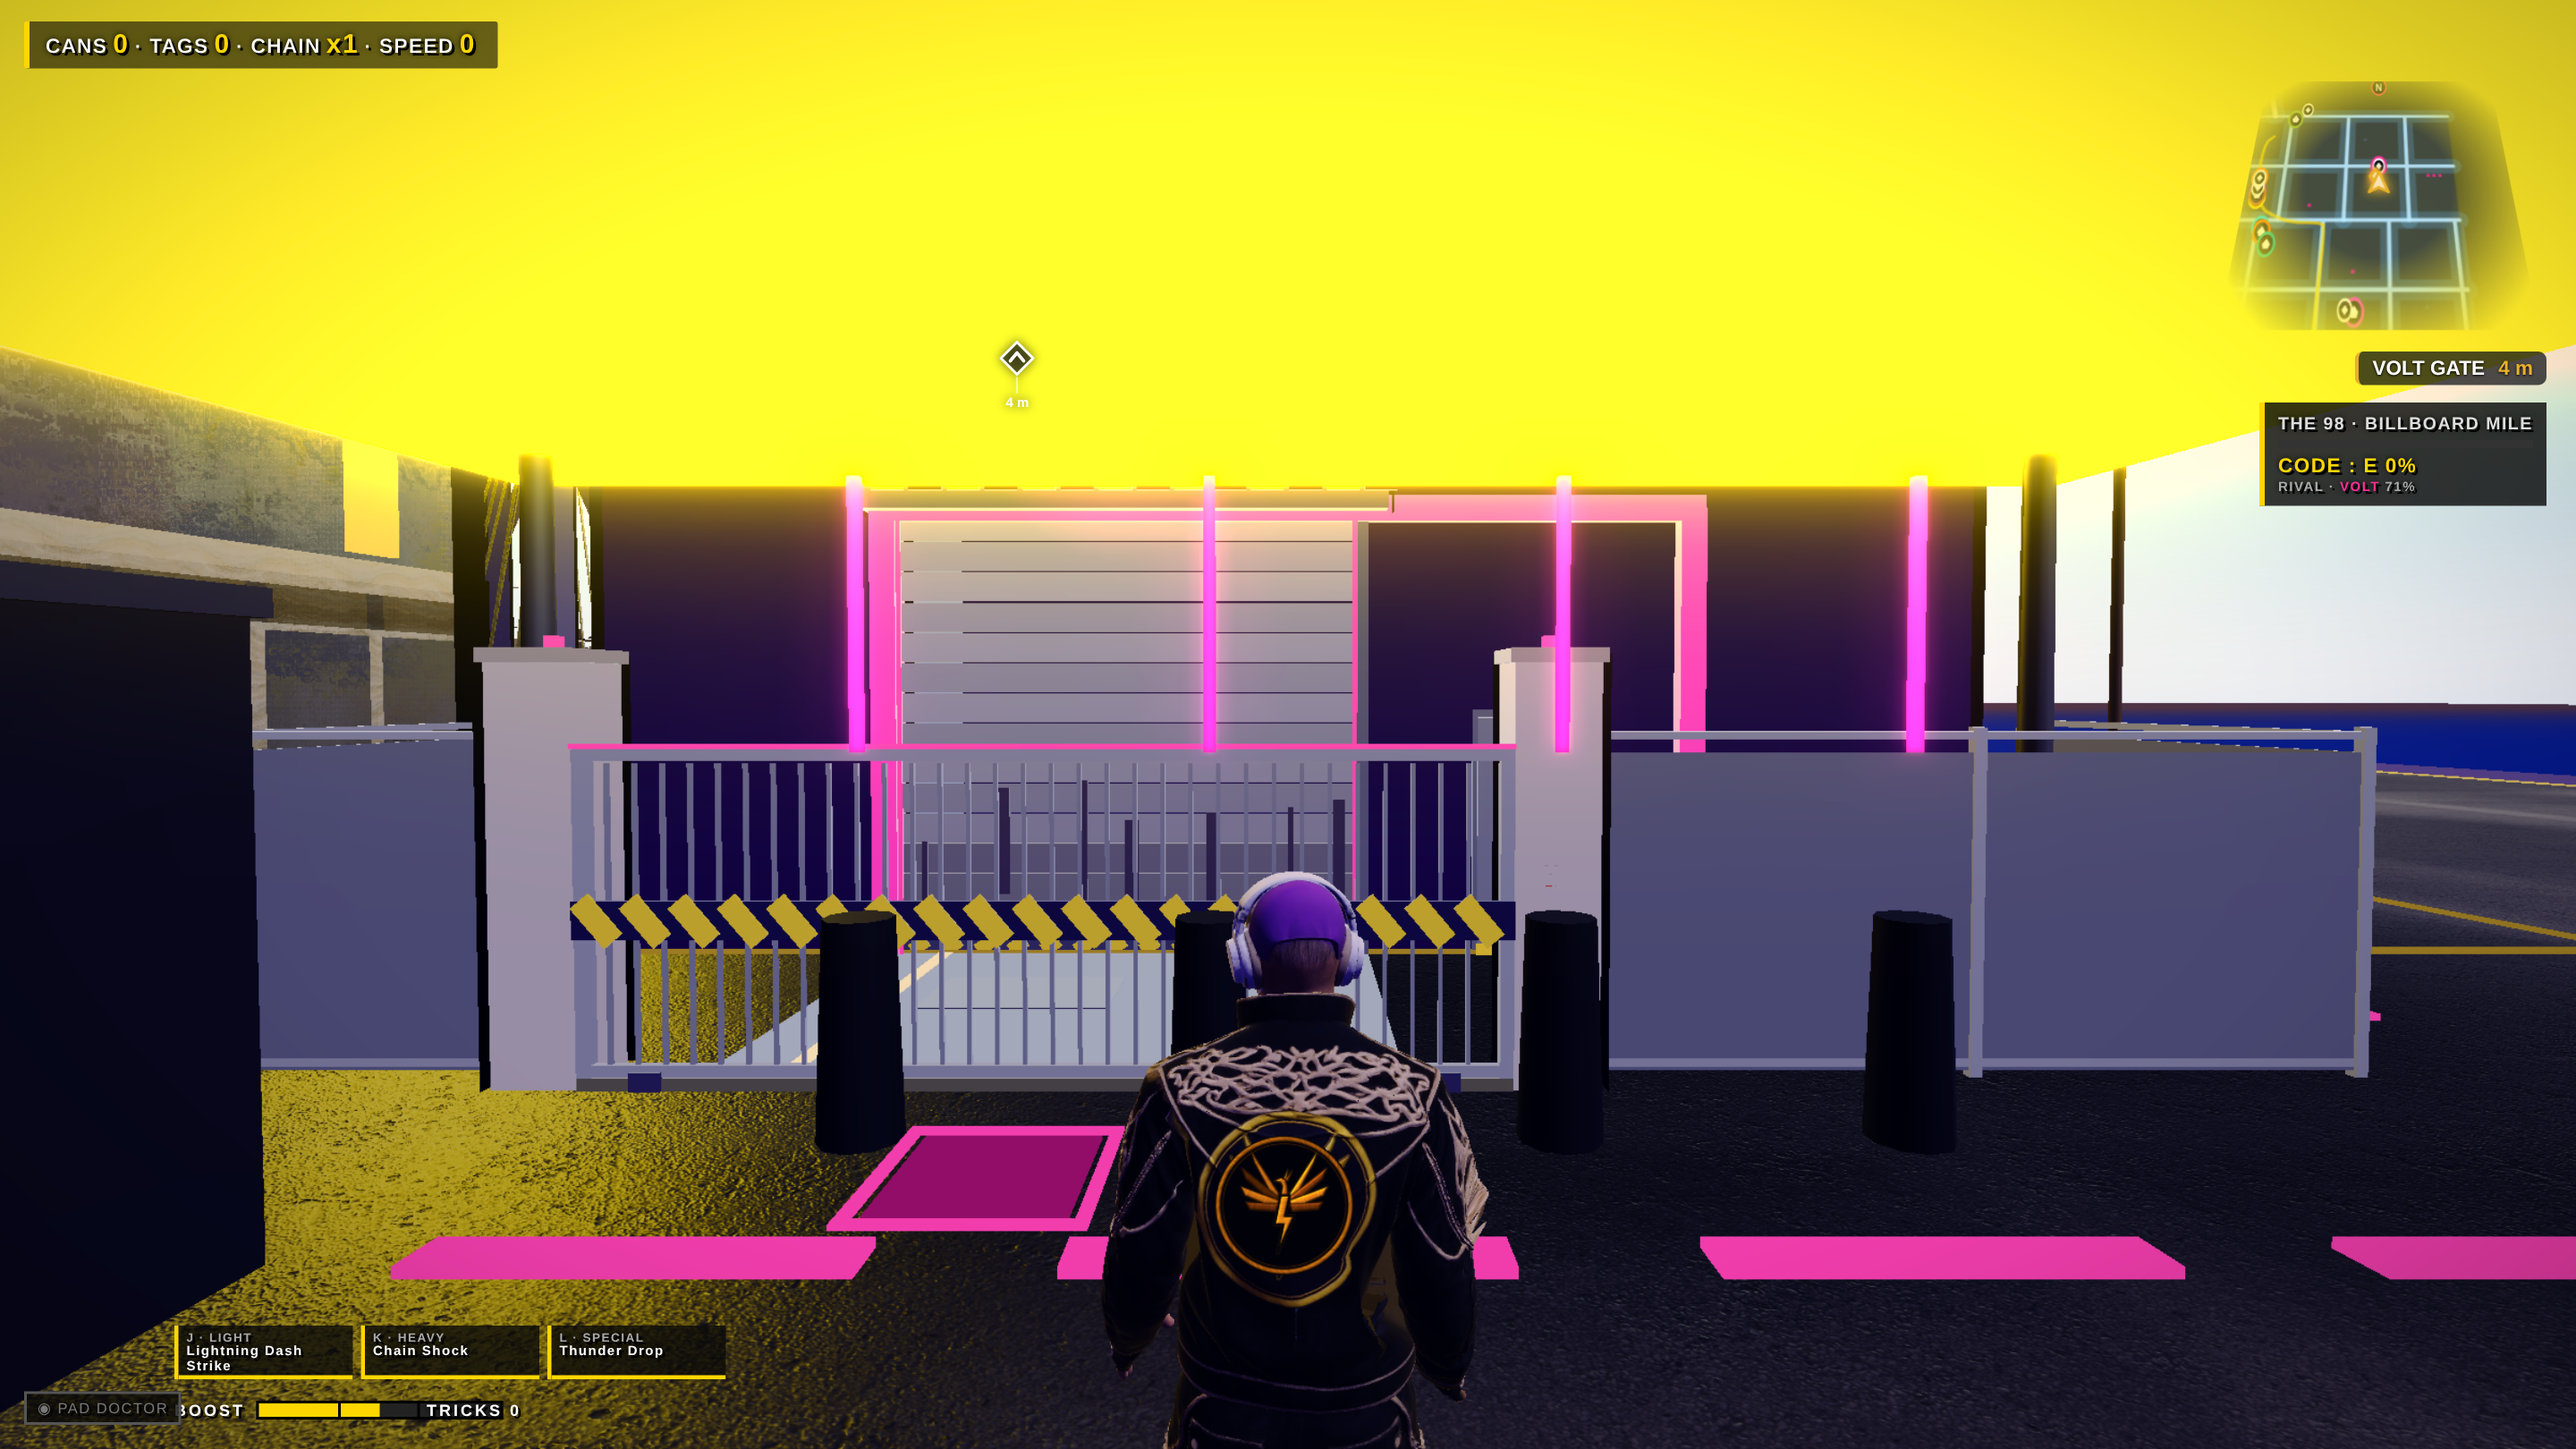
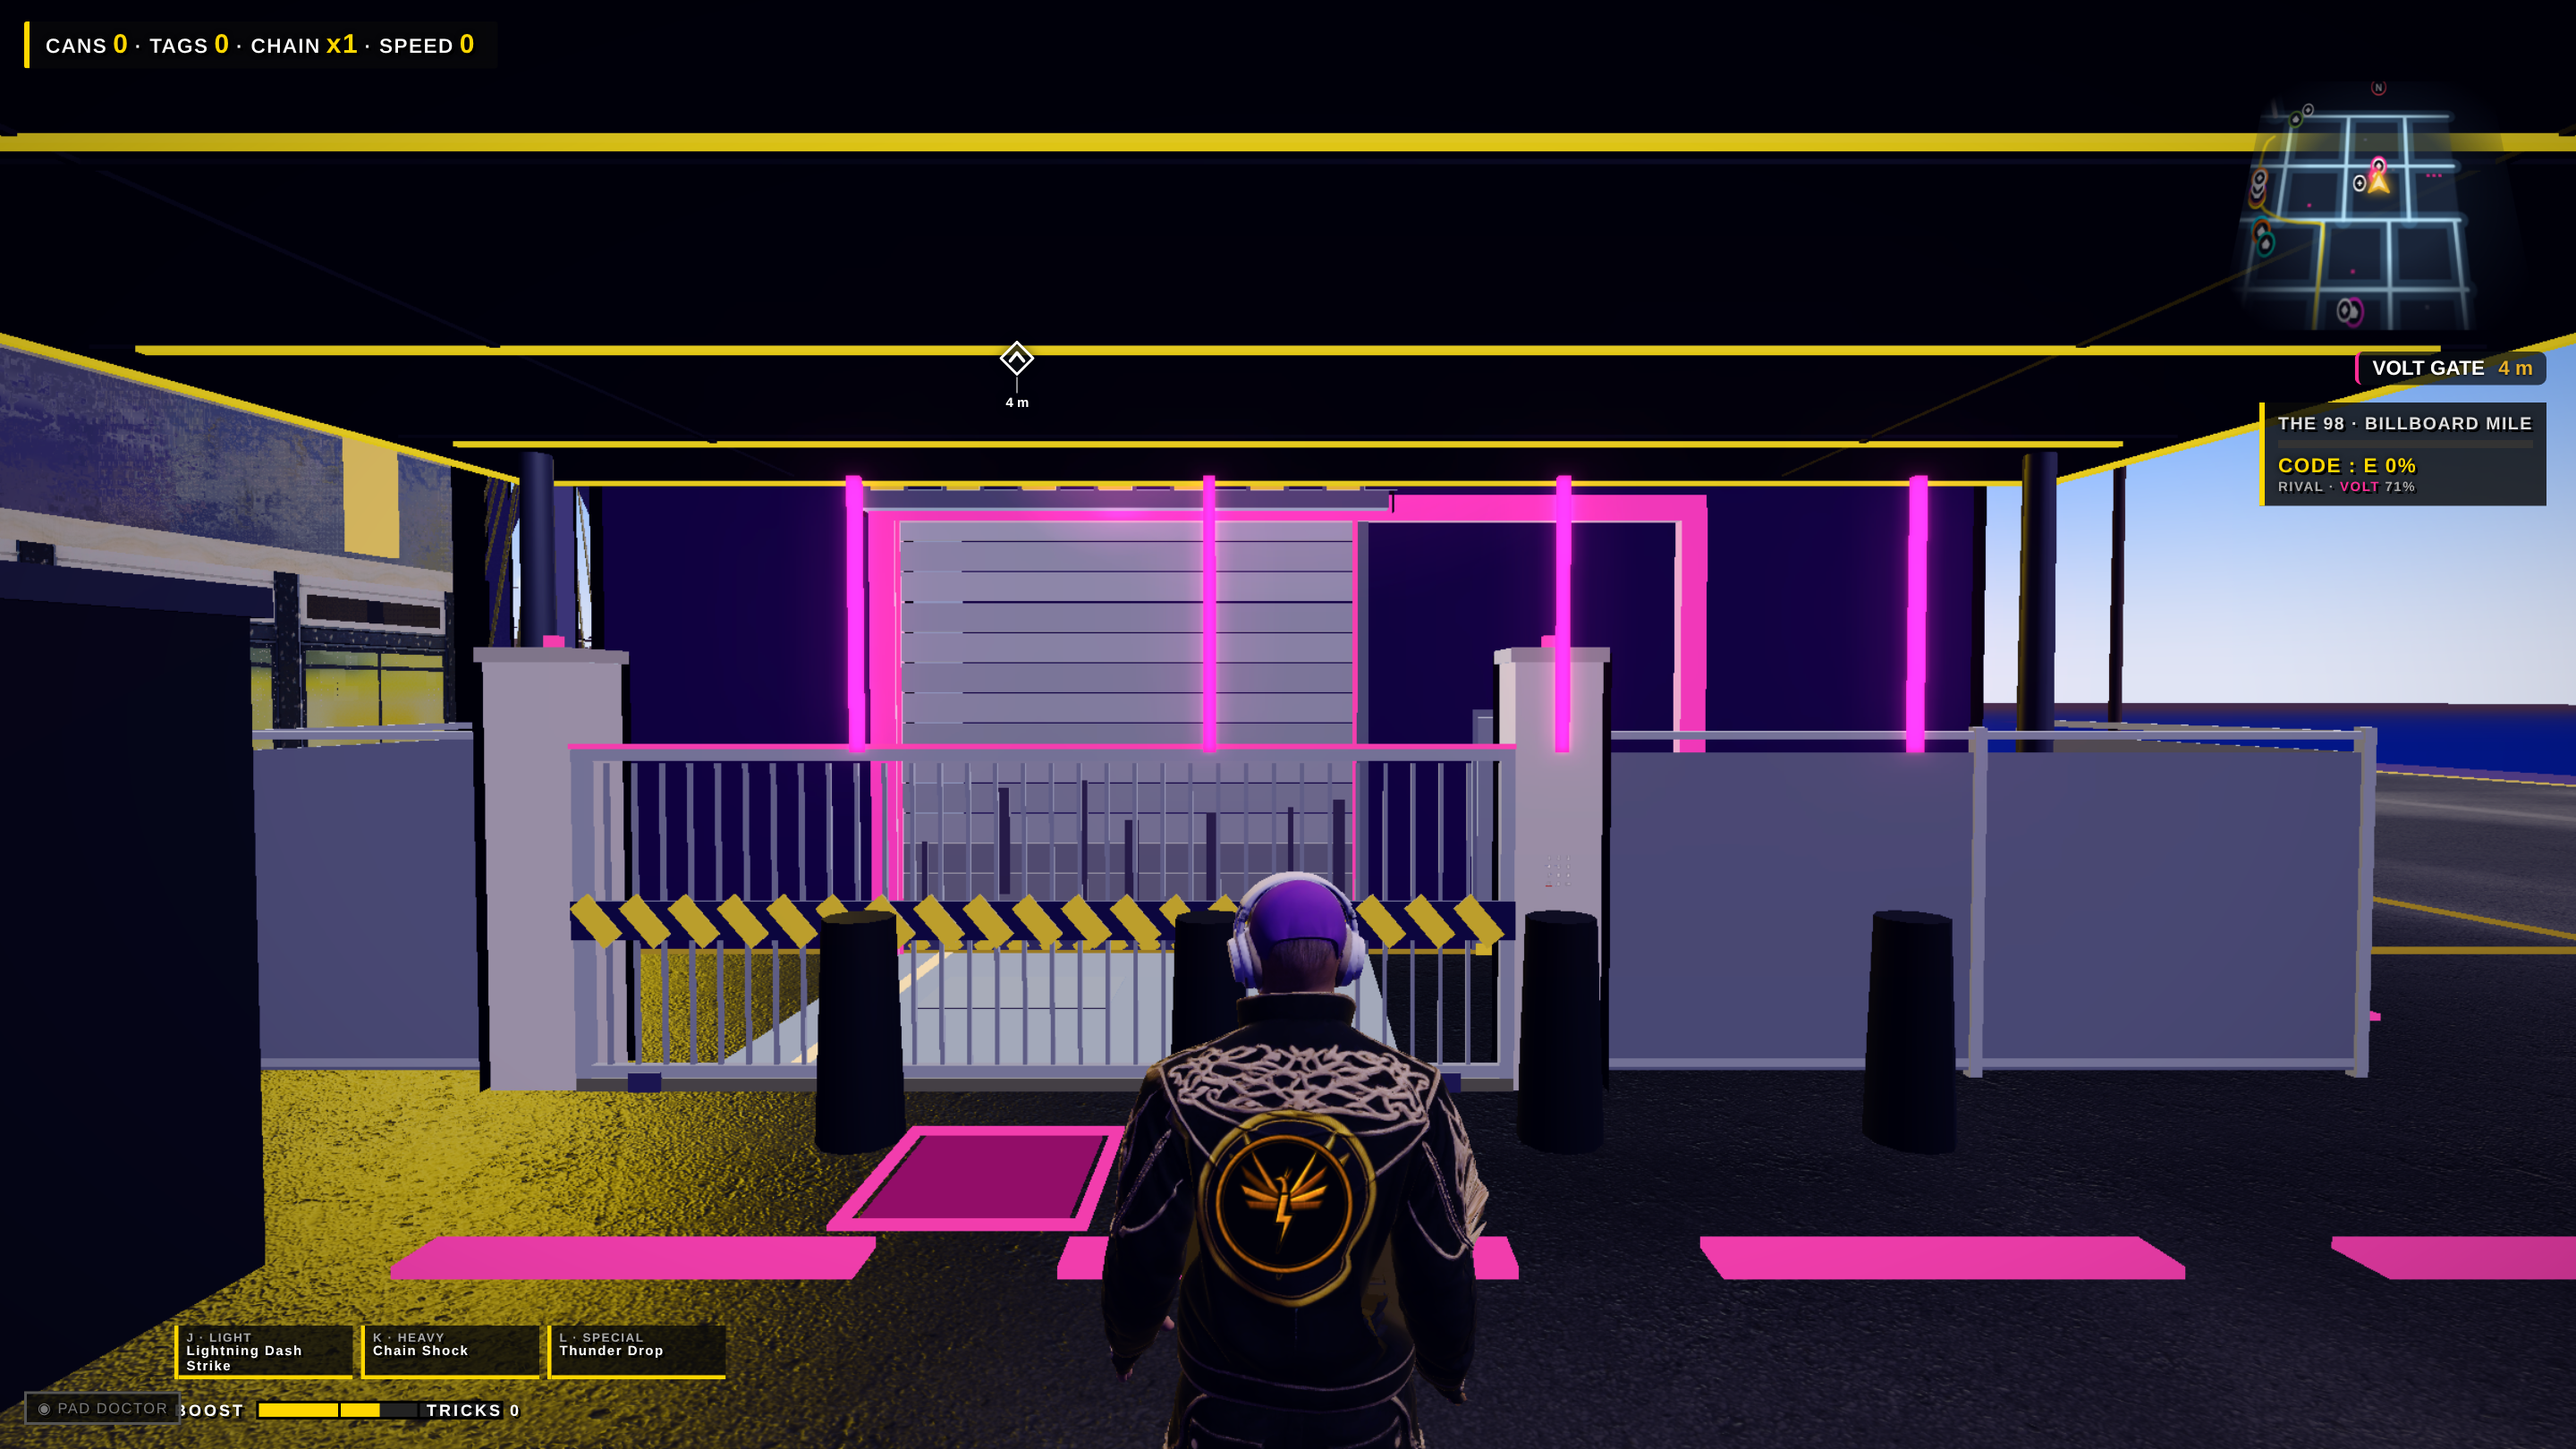
Palma Builder: Volt canopy underside dark PBR + yellow strips + reshot heroes
Replace the blown-out MeshBasic canopy slab with a dark PBR deck
(#1c1e22, roughness .6, metalness .45) and thin tone-mapped yellow
strips (emissive intensity 1.15). Exterior stays 6 draws. New day/night
heroes; _v2 keeps the pre-fix shots.

diff --git a/handover/palma-builder/code/crewhouse_kit.js b/handover/palma-builder/code/crewhouse_kit.js
@@ -502,7 +502,7 @@ const KIT_EXT={ mats:null, done:Object.create(null) };
 function kitExtMats(){ if(KIT_EXT.mats) return KIT_EXT.mats;
   const M={};
   M.steel=new THREE.MeshStandardMaterial({color:0x6a7078,roughness:.55,metalness:.7});
-  M.dark=new THREE.MeshStandardMaterial({color:0x1a1c20,roughness:.72,metalness:.35});
+  M.dark=new THREE.MeshStandardMaterial({color:0x1c1e22,roughness:.6,metalness:.45}); // Volt canopy underside composite; shared
   M.glass=new THREE.MeshStandardMaterial({color:0x88c8e8,roughness:.15,metalness:.2,transparent:true,opacity:.45,depthWrite:false});
   M.corr=new THREE.MeshStandardMaterial({color:0x7a4a2a,roughness:.85,metalness:.55});
   M.corr2=new THREE.MeshStandardMaterial({color:0x5a5e64,roughness:.7,metalness:.65});
@@ -519,17 +519,25 @@ function kitExtMerge(geos,mat,parent,name){ const ok=geos.filter(Boolean); if(!o
   const m=new THREE.Mesh(g,mat); m.name=name||'kit_ext'; m.userData.noMerge=true; m.userData.mod='kit_ext'; m.frustumCulled=true; parent.add(m); return m; }
 function kitExtPushCol(G,boxes){ const th=G.th,[gx,gz]=G.pos; const W=(lx,lz)=>[gx+lx*Math.cos(th)+lz*Math.sin(th), gz-lx*Math.sin(th)+lz*Math.cos(th)];
   for(const [a0,a1,b0,b1] of boxes){ const a=W(a0,b0), b=W(a1,b1); colliders.push({minX:Math.min(a[0],b[0]),maxX:Math.max(a[0],b[0]),minZ:Math.min(a[1],b[1]),maxZ:Math.max(a[1],b[1]),kit_ext:1,g:G}); } }
-function kitExtVolt(G){ // EV charging plaza: canopy + glass kiosk + bollards + neon (target ~5 draws)
+function kitExtVolt(G){ // EV charging plaza: canopy + glass kiosk + bollards + neon (target ~6 draws)
   // Canopy underside clearance >=3.5 m (deck y=3.85, th=.18 -> underside 3.76). No footprint AABB (2D colliders would block under-pass); posts+kiosk+bollards already collide. Thin deck is non-walkable (no ground height).
+  // Ani 14:00: underside was a blown-out 0xffe600 MeshBasic slab — dark PBR deck + thin tone-mapped emissive strips only.
   const M=kitExtMats(), root=new THREE.Group(); root.name='kit_ext_volt'; root.userData.noMerge=true; G.group.add(root);
   const th=kitTheme(G.crew), c1=new THREE.Color(th.c1), accent=new THREE.Color(th.c2);
-  const neon1=kitExtNeon(c1.getHex()), neon2=kitExtNeon(accent.getHex());
-  // draw 1: dark body (canopy deck + kiosk shell)
-  kitExtMerge([kitExtBox(10.5,.18,6.2,0,3.85,5.2), kitExtBox(2.2,2.6,2.0,-5.2,1.3,6.5)], M.dark, root, 'kit_ext_volt_dark');
+  // neon1: moderate emissive strips (NOT MeshBasic / toneMapped:false — that bloom-clipped as a yellow sheet)
+  const neon1=new THREE.MeshStandardMaterial({color:0x14140c,emissive:c1.getHex(),emissiveIntensity:1.15,roughness:.35,metalness:.15,toneMapped:true});
+  const neon2=kitExtNeon(accent.getHex());
+  // draw 1: dark body — canopy deck (underside reads as dark metal) + kiosk shell + underside panel grooves
+  kitExtMerge([kitExtBox(10.5,.18,6.2,0,3.85,5.2), kitExtBox(2.2,2.6,2.0,-5.2,1.3,6.5),
+    kitExtBox(10.0,.015,.035,0,3.745,3.55),kitExtBox(10.0,.015,.035,0,3.745,5.2),kitExtBox(10.0,.015,.035,0,3.745,6.85),
+    kitExtBox(.035,.015,5.6,-3.3,3.745,5.2),kitExtBox(.035,.015,5.6,3.3,3.745,5.2)], M.dark, root, 'kit_ext_volt_dark');
   // draw 2: steel (canopy posts + kiosk roof) — posts h=3.76 @ cy=1.88 reach deck underside
   kitExtMerge([kitExtCyl(.09,.11,3.76,-4.6,1.88,3.0),kitExtCyl(.09,.11,3.76,-4.6,1.88,7.2),kitExtCyl(.09,.11,3.76,4.6,1.88,3.0),kitExtCyl(.09,.11,3.76,4.6,1.88,7.2),kitExtBox(2.3,.12,2.1,-5.2,2.66,6.5)], M.steel, root, 'kit_ext_volt_steel');
-  // draw 3: neon primary (canopy edge + LED strips + yard strip)
-  kitExtMerge([kitExtBox(10.7,.06,6.4,0,3.78,5.2),kitExtBox(9.6,.04,.08,0,3.72,3.4),kitExtBox(9.6,.04,.08,0,3.72,5.2),kitExtBox(9.6,.04,.08,0,3.72,7.0),kitExtBox(9.5,.03,.2,0,.04,8.2)], neon1, root, 'kit_ext_volt_neon1');
+  // draw 3: yellow emissive accents only — thin perimeter + cross strips + yard strip (no full-slab)
+  kitExtMerge([kitExtBox(10.55,.03,.05,0,3.74,2.15),kitExtBox(10.55,.03,.05,0,3.74,8.25),
+    kitExtBox(.05,.03,6.15,-5.22,3.74,5.2),kitExtBox(.05,.03,6.15,5.22,3.74,5.2),
+    kitExtBox(9.6,.025,.045,0,3.735,3.4),kitExtBox(9.6,.025,.045,0,3.735,5.2),kitExtBox(9.6,.025,.045,0,3.735,7.0),
+    kitExtBox(9.5,.03,.2,0,.04,8.2)], neon1, root, 'kit_ext_volt_neon1');
   // draw 4: neon accent (kiosk bar + 4 cable arms as boxes)
   kitExtMerge([kitExtBox(1.6,.18,.06,-5.2,2.4,7.55),kitExtBox(.06,1.4,.06,-2.2,2.7,4.2),kitExtBox(.06,1.4,.06,-.4,2.7,4.2),kitExtBox(.06,1.4,.06,1.4,2.7,4.2),kitExtBox(.06,1.4,.06,3.2,2.7,4.2)], neon2, root, 'kit_ext_volt_neon2');
   // draw 5: glass kiosk pane

diff --git a/handover/palma-builder/ref/garages-volt-rustclaw.md b/handover/palma-builder/ref/garages-volt-rustclaw.md
@@ -132,3 +132,21 @@ Each exterior ≤ ~6 draws; world ≤ 110 (dcsplit2, desktop non-XR, post off, s
 
 ### Files
 `crewhouse_kit.js`, `patch_crewhouse_kit.py`, `garage_hero_shots.py`, `palma_testlock.sh`. Backups `*.bak-ani-fix-*`.
+
+### 2026-11-05 14:01 CST — Volt canopy underside (Ani)
+- Cause: `kitExtBox(10.7,.06,6.4)` neon1 MeshBasic (toneMapped:false) = blown-out yellow sheet under night cam.
+- Fix in `crewhouse_kit.js` kitExtVolt: remove full slab; dark PBR deck (M.dark roughness .6) + thin MeshStandard emissive strips (intensity 1.15, toneMapped); still 6 draws. build_copy → `/tmp/palma_garages.html`. Waiting lock (pbr_base + bases queue first).
+
+### 2026-11-05 14:51 CST — resume canopy re-shoot
+- Code + copy OK (emissiveIntensity 1.15 strips, no full slab). Waiter pid 2090461 healthy, yielding to Rigger 2078568 (simca+dark2, lock from 14:35). Pre-fix heroes still at garage_volt_exterior_{day,night}.png; *_v2 are same-byte pre-fix backups (not new shots).
+
+### 2026-11-05 15:57 CST — Volt canopy heroes VERIFIED
+- Existing waiter acquired at 15:51 CST; built copy only. New day/night shots captured at df=70/69, 1920×1080 dsf=1.5 HD seed=1 FX on; both viewed. Dark underside, thin yellow strips, no flat yellow blowout; gate/pad still clear. *_v2 files are intentionally the previous pre-fix heroes, NOT the new outputs.
+- Runtime probe: extVariant draws=6; dark material #1c1e22 roughness .6 metalness .45; primary strips MeshStandardMaterial emissiveIntensity=1.15, toneMapped=true.
+- dcsplit2 actual HOOK+BRV b98 view: world=95 ≤110, no page errors. Characters=106 (assets still loading in this short run), FX=5; 110 cap is WORLD metric.
+- Quick gate harness wrongly asserted extVariant.visible=false (visibility uses camera layers); gate replay queued with original layer-aware test, Volt only. Do not use that harness FAIL as a gameplay regression.
+
+### 2026-11-05 16:07 CST — Volt canopy ready for rebuild
+- Correct original layer-aware Volt gate test PASS (unlock/enter/layer-hide/exit restore), PAGEERRORS 0. Gate-only lock released promptly.
+- Both new heroes visually approved; prior heroes retained as *_v2. b98 world 95; exterior 6 draws. Real html md5 unchanged: 5ad0f5646468f5fef7d25f9153144e8e.
+- DEMO_STATUS backed up and ready line added. CloudAgent unavailable; parent handover instructions at /tmp/volt_canopy_parent_message.txt. pbr_base mip-bias/storefront-glow polish intentionally deferred.

diff --git a/handover/palma-builder/INVENTORY.md b/handover/palma-builder/INVENTORY.md
@@ -242,3 +242,6 @@ Ani review fixes + CREW_RIVALS: crewhouse_kit.js (kitTheme←CREW_RIVALS, kitFix
 - Chain: `python3 patch_pbr_base.py` immediately after `patch_pbr_world.py` (Ani approved). Default-on only after Ani look check + Oliver before/after.
 - Hero finals: `shots/hero/bldgbase_final_{street,close}_{day,night}_{before,after}.png` + `*_side_by_side.png`.
 - WIP refs kept out of chain: `pbr_base_wip.js`, `pbr_base_wip_inject.py`, `pbr_base_wip.glsl`.
+
+## Update 2026-11-05 — Volt canopy underside (Palma Builder)
+Volt canopy follow-up: code/crewhouse_kit.js dark PBR canopy #1c1e22 roughness .6 metalness .45; thin primary strips MeshStandardMaterial emissive intensity 1.15 toneMapped=true. Exterior remains 6 draws. New day/night heroes in shots/hero; _v2 are old pre-fix backups. Runtime b98 world 95 <=110, layer-aware gate PASS, 0 errors. Real html unchanged. No pbr_base polish changes.
